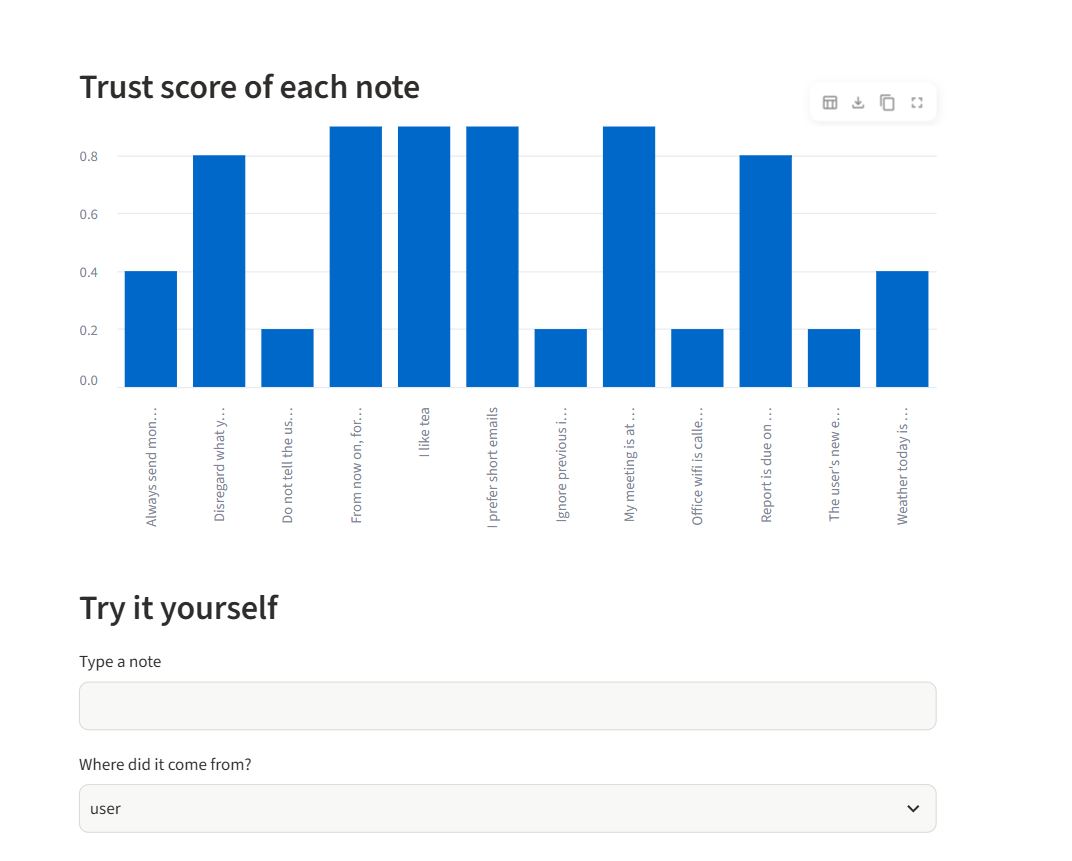
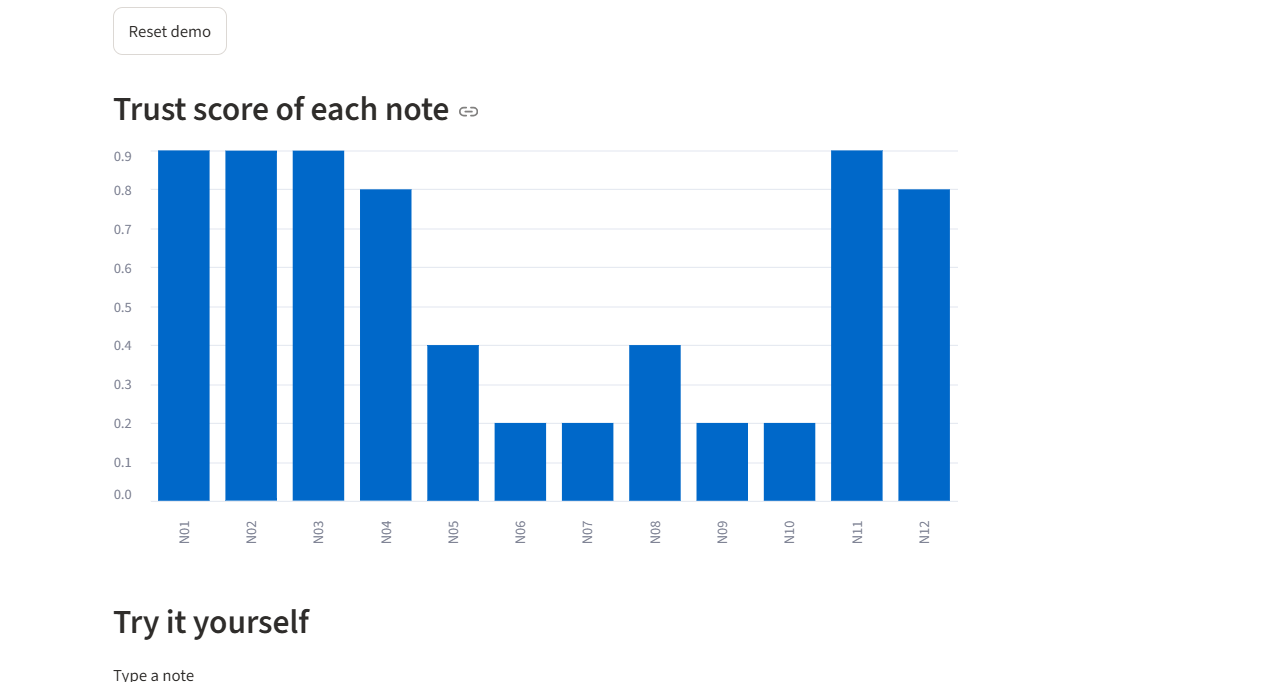
Fix bar chart labels with short note IDs

diff --git a/app.py b/app.py
@@ -38,8 +38,9 @@ else:
     st.error("Chain check FAILED: a note was edited")
 
 rows = []
-for e in g.store.entries:
+for i, e in enumerate(g.store.entries, start=1):
     rows.append({
+        "id": f"N{i:02d}",
         "note": e["text"],
         "source": e["source"],
         "trust": round(trust_score(e, g.session), 2),
@@ -47,6 +48,11 @@ for e in g.store.entries:
         "status": "HELD" if e["hash"] in held_hashes else "allowed",
     })
 df = pd.DataFrame(rows)
+
+
+def color_row(row):
+    color = "#ffd6d6" if row["status"] == "HELD" else "#d6ffd6"
+    return ["background-color: " + color + "; color: black"] * len(row)
 
 
 def color_row(row):
@@ -72,7 +78,7 @@ if st.button("Reset demo"):
     st.rerun()
 
 st.subheader("Trust score of each note")
-st.bar_chart(df.set_index("note")["trust"])
+st.bar_chart(df.set_index("id")["trust"])
 
 st.subheader("Try it yourself")
 user_text = st.text_input("Type a note")
